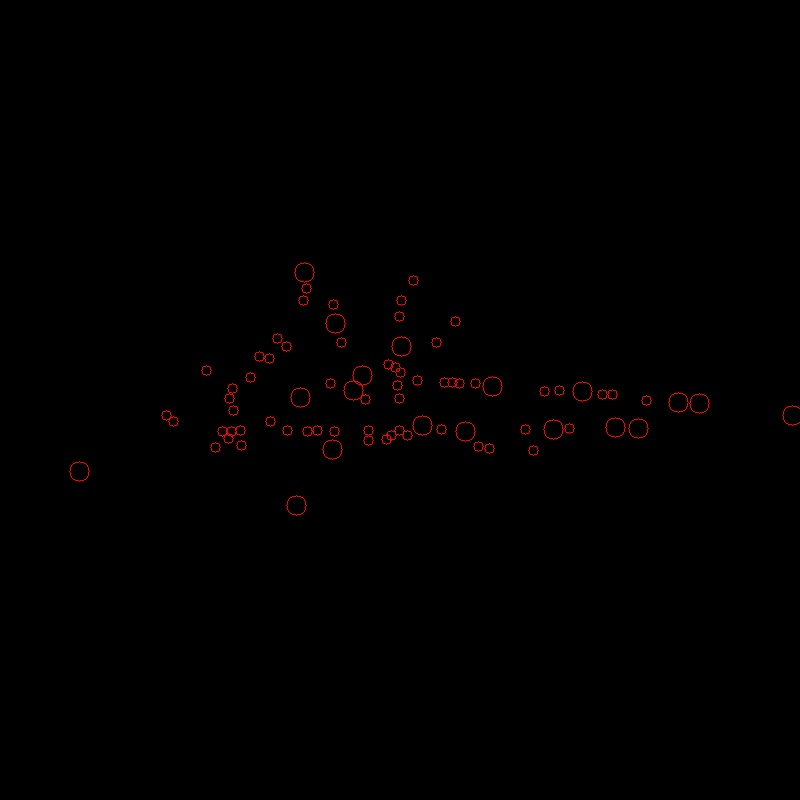
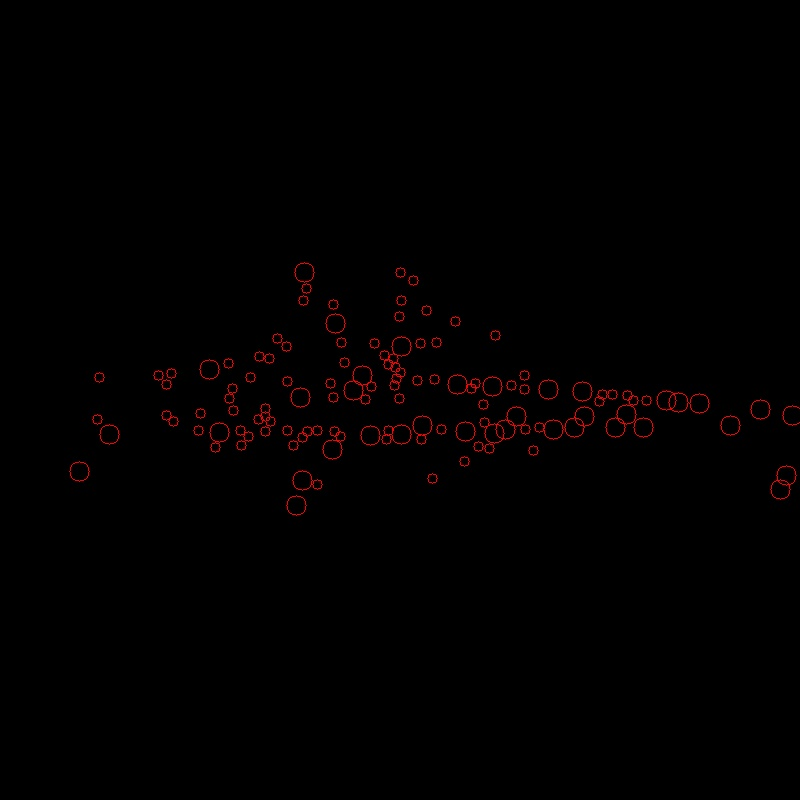
Added scripting to getFeatures

diff --git a/getFeatures.py b/getFeatures.py
@@ -50,6 +50,10 @@ if __name__ == "__main__":
     streamArr = getRadarStreamPolar(dataPath, timestampPath)
     nImgs = streamArr.shape[2]
 
+    # Img saving
+    toSavePath = os.path.join(".", "img", "blob", datasetName)
+    os.makedirs(toSavePath, exist_ok=True)
+
     for imgNo in range(nImgs):
         imgPolar = streamArr[:, :, imgNo]
 
@@ -59,7 +63,7 @@ if __name__ == "__main__":
                                        min_sigma=0.01,
                                        max_sigma=10,
                                        num_sigma=3,
-                                       threshold=.00075,
+                                       threshold=.0005,
                                        method="doh")
 
         # Display with radii?
@@ -81,10 +85,8 @@ if __name__ == "__main__":
 
         try:
             # Save blob images
-            toSavePath = os.path.join(".", "img", "blob", datasetName)
-            os.makedirs(toSavePath, exist_ok=True)
-            toSavePath = os.path.join(toSavePath, f"{imgNo:04d}.jpg")
-            cv2.imwrite(toSavePath, imgCartBGR)
+            toSaveImgPath = os.path.join(toSavePath, f"{imgNo:04d}.jpg")
+            cv2.imwrite(toSaveImgPath, imgCartBGR)
 
             cv2.imshow("Cartesian Stream with Blob Features", imgCartBGR)
             c = cv2.waitKey(100)
@@ -95,3 +97,13 @@ if __name__ == "__main__":
             break
 
     cv2.destroyAllWindows()
+
+    # Generate mp4 and save that
+    print("Generating mp4 with script (requires bash and FFMPEG command)...")
+    try:
+        os.system(f"./img/mp4-from-folder.sh {toSavePath}")
+        print(f"mp4 added to {toSavePath} folder!")
+    except:
+        print(
+            "Failed to generate mp4 with script. Likely failed system requirements."
+        )
